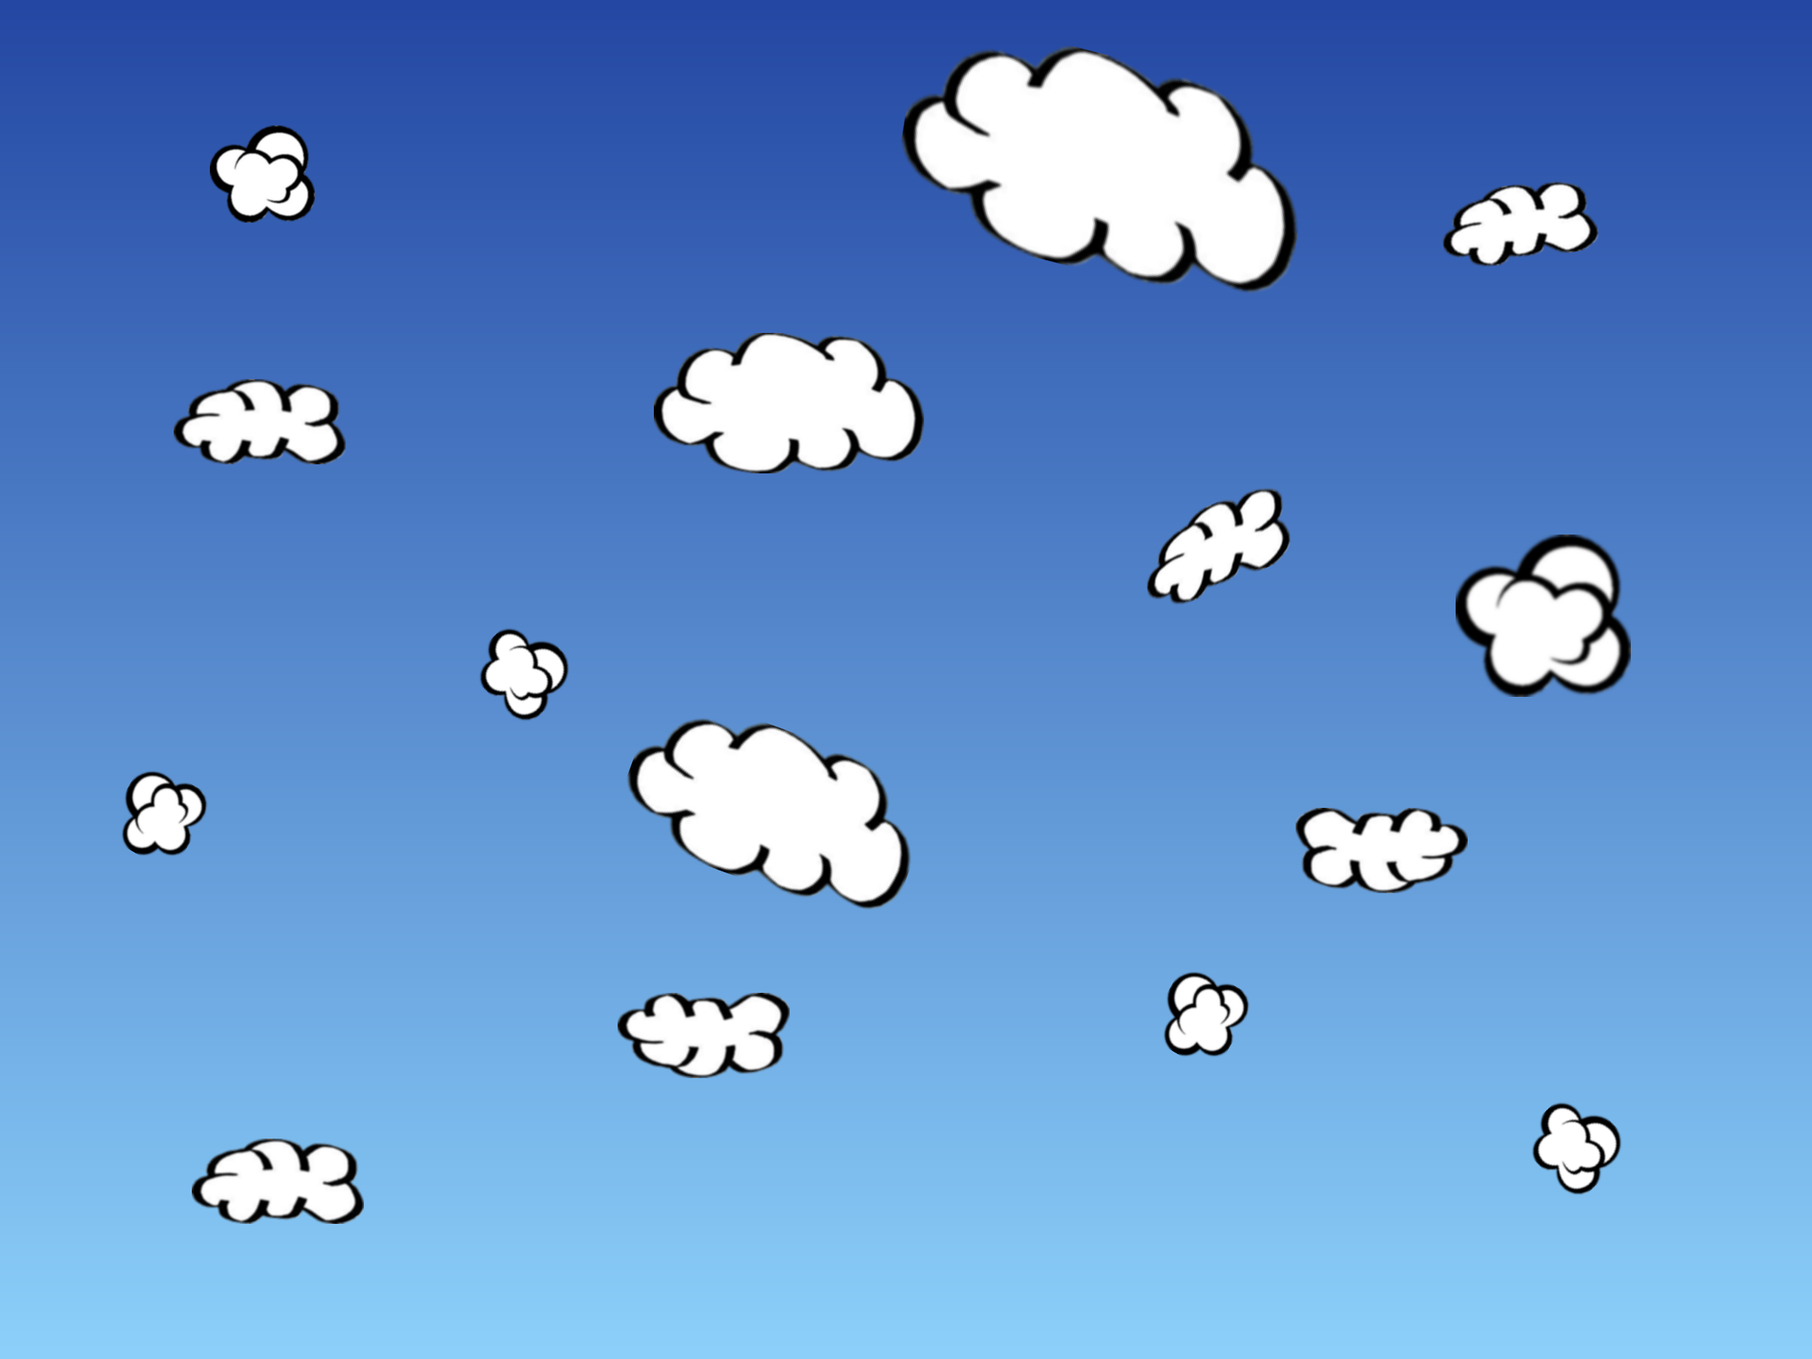
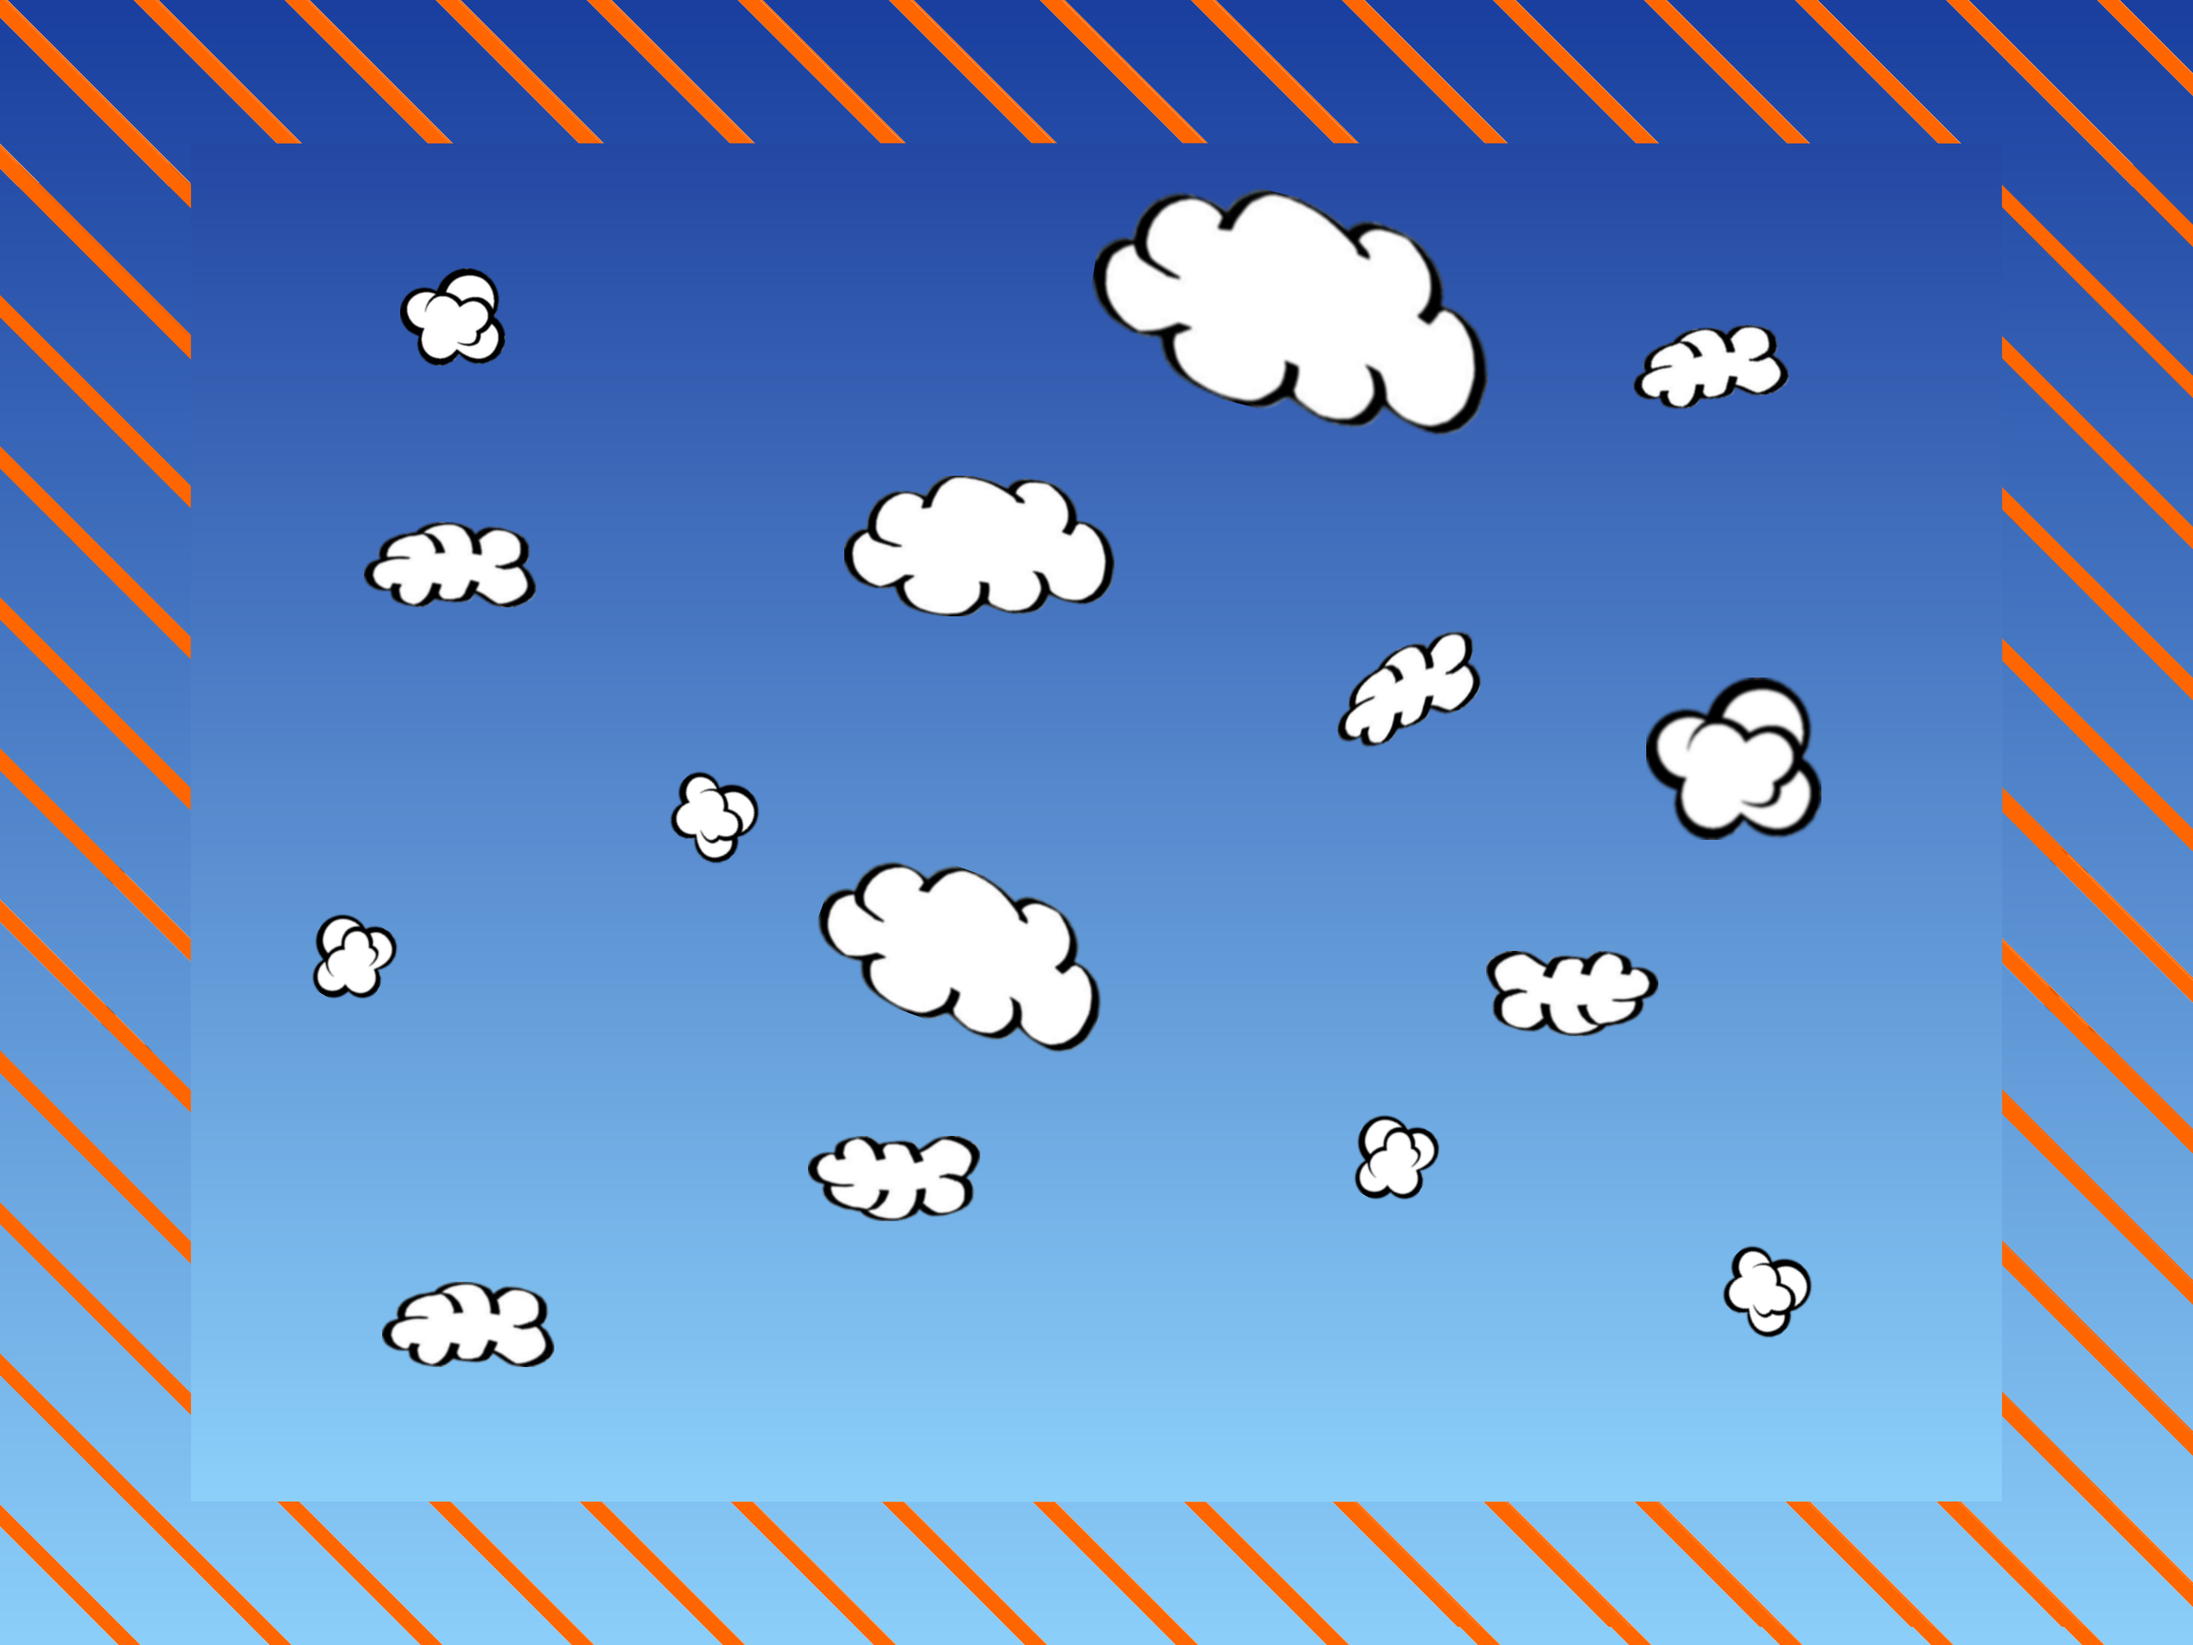
change background and add suicide

diff --git a/server.js b/server.js
@@ -33,7 +33,7 @@ var Cz = 1;
 
 var PLANE_LIFE = 5;
 
-var WINDOW_SIZE = {w:800, h:600, deltaS:50, deltaM:20};
+var WINDOW_SIZE = {w:2398, h:1798};
 
 var box = [0, 0, WINDOW_SIZE.w*2, WINDOW_SIZE.h*2];
 
@@ -215,19 +215,28 @@ var interval = setInterval(function() {
 
            
             //console.log(angleMod, plane.speed);
-            /*            //end of screen
-            if(plane.x > WINDOW_SIZE.w+WINDOW_SIZE.deltaS) {
-                plane.x = -WINDOW_SIZE.deltaM;
+                        //end of screen
+            if(plane.x > WINDOW_SIZE.w) {
+                //TODO : suicide
+                resetPlane(clients[i]);
+                clients[i].hits.from++;
+                data.push({type:"event", message: (new Date()).toLocaleTimeString() + " : " + clients[i].pseudo + " has committed suicide!"});
             }
-            if(plane.x < -WINDOW_SIZE.deltaS) {
-                plane.x = WINDOW_SIZE.w+WINDOW_SIZE.deltaM;
+            if(plane.x < 0) {
+                resetPlane(clients[i]);
+                clients[i].hits.from++;
+                data.push({type:"event", message: (new Date()).toLocaleTimeString() + " : " + clients[i].pseudo + " has committed suicide!"});
             }
-            if(plane.y > WINDOW_SIZE.h+WINDOW_SIZE.deltaS) {
-                plane.y = -WINDOW_SIZE.deltaM;
+            if(plane.y > WINDOW_SIZE.h) {
+                resetPlane(clients[i]);
+                clients[i].hits.from++;
+                data.push({type:"event", message: (new Date()).toLocaleTimeString() + " : " + clients[i].pseudo + " has committed suicide!"});
             }
-            if(plane.y < -WINDOW_SIZE.deltaS) {
-                plane.y = WINDOW_SIZE.h+WINDOW_SIZE.deltaM;
-            }*/
+            if(plane.y < 0) {
+                resetPlane(clients[i]);
+                clients[i].hits.from++;
+                data.push({type:"event", message: (new Date()).toLocaleTimeString() + " : " + clients[i].pseudo + " has committed suicide!"});
+            }
 
             data.push({type:"plane", id: plane.id, x:plane.x, 
                 y:plane.y, sv:{vx: plane.vx, vy:plane.vy}, l: clients[i].life, a:plane.angle, s:Math.sqrt(Math.pow(plane.vx,2)+Math.pow(plane.vy,2))});
@@ -256,8 +265,6 @@ var interval = setInterval(function() {
                             to:clients[i].id};
                             data.push(hitMsg);
 
-                           
-
                             clients[i].life--;
 
                             if(clients[i].life == 0) {
@@ -267,14 +274,12 @@ var interval = setInterval(function() {
                                 resetPlane(clients[i]);
                             }
 
-                            sendToAll({type:"players", data: {players:getUsers()}});
-
                             gameBullets[bul].l = -1;
                         }
                     }
                 }
             }
-
+            sendToAll({type:"players", data: {players:getUsers()}});
         }
     }
 

diff --git a/js/World.js b/js/World.js
@@ -49,7 +49,7 @@ function World() {
 		//c.width = c.width;
 		gs.background('rgba(40, 40, 40, 1.0)');
 
-		c.drawImage(background_sky,backgroundPos[0],backgroundPos[1]);
+		c.drawImage(background_sky,backgroundPos[0]-253,backgroundPos[1]-190);
 
 		//c.rect(backgroundPos[0],backgroundPos[1],backgroundPos[2],backgroundPos[3]);
 
